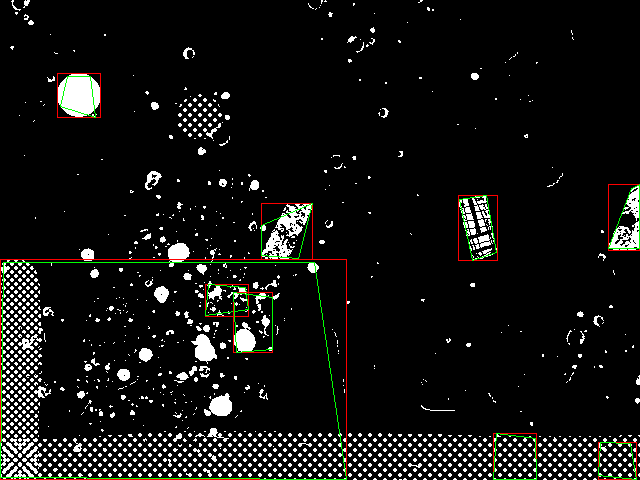
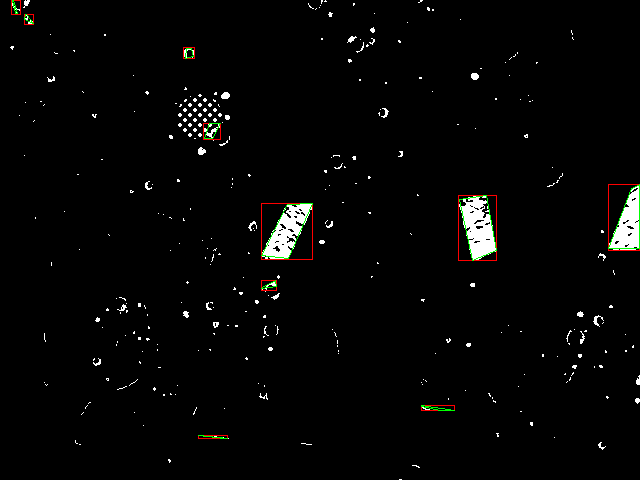
Blob Processor Prioritization Work

diff --git a/Scripting/BlobProcessor.js b/Scripting/BlobProcessor.js
@@ -2,12 +2,14 @@ const fs = require('fs');
 var drawing = require('pngjs-draw');
 const png = drawing(require('pngjs').PNG);
 
+const maxBlobs = 21;
+const minArea = 100;
 let blobs = [];
 let blobPointer = 0;
 let joined = 255; //the index of of the blob is last joined
 let frameBuffer = [...Array(1000)].map(e => Array(1000));
 
-fs.createReadStream('images/2019_Noise3.png')
+fs.createReadStream('images/2019_Noise2.png')
     .pipe(new png())
     .on('parsed', function () {
 
@@ -29,12 +31,12 @@ fs.createReadStream('images/2019_Noise3.png')
             }
         }
 
-        console.log("num:" + blobs.length);
+        console.log("x:", blobs.length, blobPointer);
 
         //Draw Blobs
         for (let i = 0; i < blobs.length; i++) {
             const area = (blobs[i].boundBottomRight.x - blobs[i].boundTopLeft.x) * (blobs[i].boundBottomRight.y - blobs[i].boundTopLeft.y);
-            if (blobs[i].valid && area > 1000) {
+            if (blobs[i].valid && area >= minArea) {
                 this.drawRect(
                     blobs[i].boundTopLeft.x,
                     blobs[i].boundTopLeft.y,
@@ -135,7 +137,7 @@ function processPixel(pos) {
             reserved: 0
         };
         blobPointer = blobPointer + 1;
-        fixBlobPointer();
+        fixBlobPointer(pos);
     }
 }
 
@@ -182,21 +184,37 @@ function getStats(blob) {
 }
 
 //Fix Blob Pointer
-function fixBlobPointer() {
+function fixBlobPointer(pos) {
     //out of bounds OR on top of existing blob --> find empty blob
-    //if all blobs are full it won't change blobPointer and just overwrite the blob its on; is this the behavior we want? should it clear the blob in that case?
-    // if (blobPointer > blobs.length - 1 || blobs[blobPointer].valid) {
-    //     if (blobPointer > blobs.length - 1) {
-    //         blobPointer = 0;
-    //     }
+    if (blobPointer > maxBlobs || blobs[blobPointer]?.valid) {
+        if (blobPointer > maxBlobs) {
+            blobPointer = 0;
+        }
 
-    //     for (let i = 0; i < blobs.length; i++) {
-    //         if (!blobs[i].valid) {
-    //             blobPointer = i;
-    //             return;
-    //         }
-    //     }
-    // }
+        for (let i = 0; i < blobs.length; i++) {
+            //if found valid blob then we outta here
+            if (!blobs[i]?.valid) {
+                blobPointer = i;
+                return;
+            }
+
+            //otherwise find smallest blob
+            if (getPriority(i, pos) < getPriority(blobPointer, pos)) {
+                blobPointer = i;
+            }
+        }
+    }
+}
+
+function getPriority(i, pos) {
+    const area = (blobs[i].boundTopLeft.x - blobs[i].boundBottomRight.x) * (blobs[i].boundTopLeft.y - blobs[i].boundBottomRight.y);
+
+    if (blobs[i].boundBottomRight.y + 20 < pos.y && area < minArea) {
+        //blob is done --> lowest priority
+        return 0;
+    }
+    
+    return area;
 }
 
 //Range Functions
